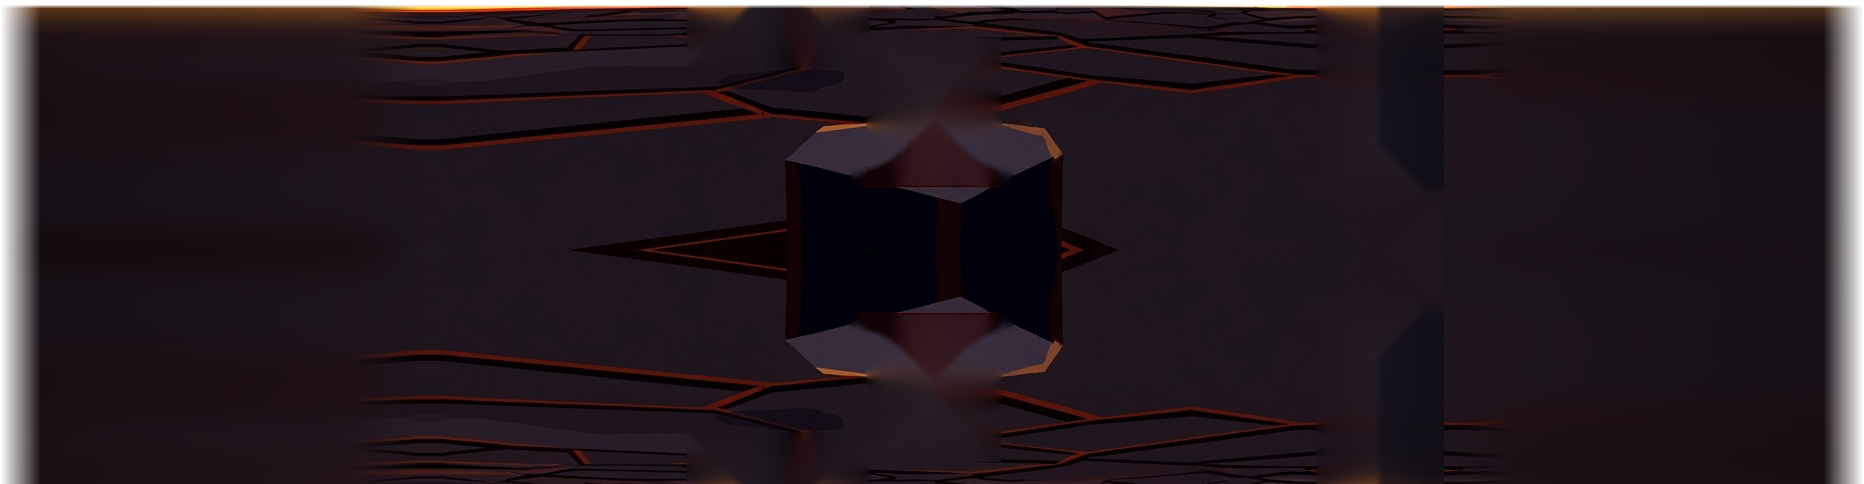
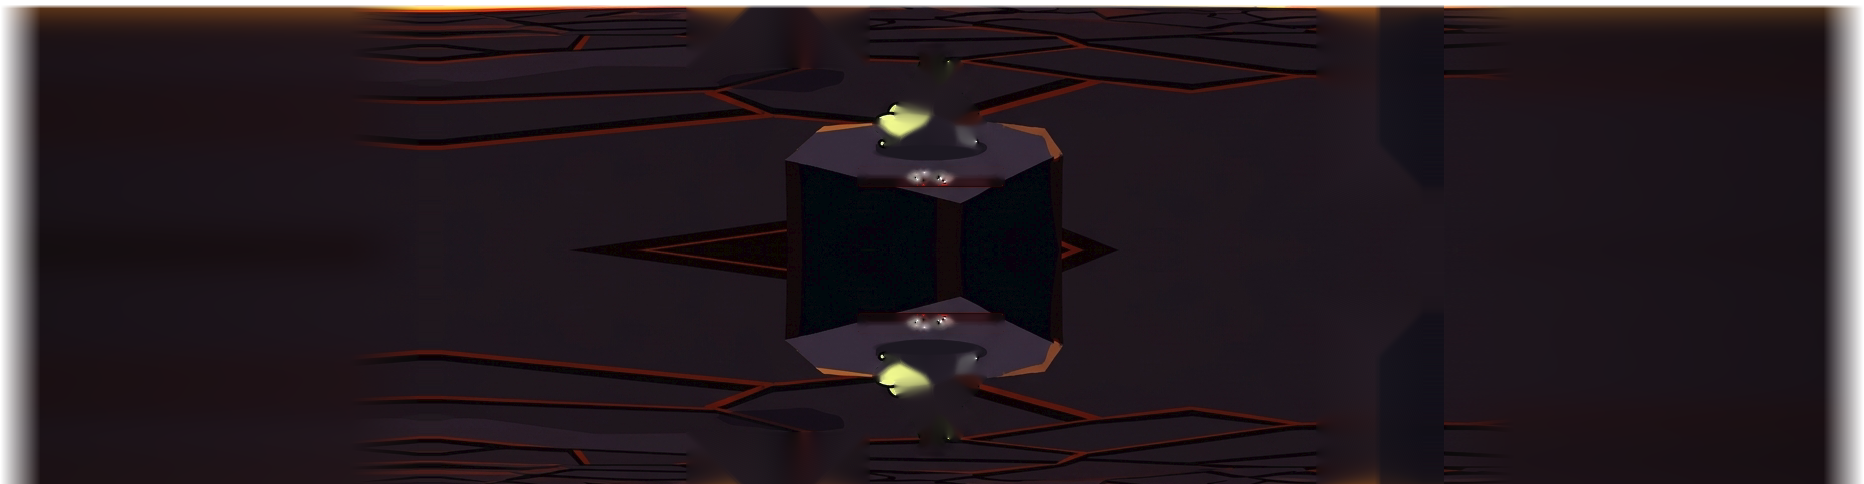
builder: TARGET's own pedestal at the rest view, darkest values kept; --frog close-up
Claude-Session: https://claude.ai/code/session_012yy1YjbpvUxnwcpt4xtUdn

diff --git a/tools/floor_cut.py b/tools/floor_cut.py
@@ -34,10 +34,12 @@ LAVA_FOOT = 548      # rows above this are the lava band: alpha fades in below i
 # differ the painted one reads as its foot.
 HOLES = [
     (270, 524, 446, 604),     # the lowest slab
-    (450, 582, 578, 708),     # the Frog
-    (434, 696, 590, 722),     # its HP bar
     (900, 300, 1016, 740),    # the climb gauge
 ]
+DARK_INV = ([0, 1, 3, 7, 13, 19, 24, 30, 255], [0, 9.3, 10, 12, 15, 20, 25, 30, 255])
+FROG = (440, 578, 590, 712)   # box round the Frog and its marker
+BAR = (428, 692, 596, 726)    # box round its HP bar
+SHADOW = ((507.0, 692.0), (56.0, 8.0))   # centre, radii in TARGET px
 CARDS_ROW = 790           # TARGET row the hand starts at: below it, rows repeat
 GROW = 4
 SIDE_FEATHER = 40
@@ -57,10 +59,29 @@ def build() -> None:
     hole = np.zeros((H, W), bool)
     for (x0, y0, x1, y1) in HOLES:
         hole[max(0, y0 - TOP - GROW):max(0, y1 - TOP + GROW), max(0, x0 - GROW):x1 + GROW] = True
+    # The Frog and its HP bar: only their own pixels (the green body and its
+    # dark outline, the red bar and its rim), so the fill does not smear the
+    # plinth round them (grader 2026-10-09, --frog close-up).
+    for (x0, y0, x1, y1), keyf in ((FROG, "frog"), (BAR, "bar")):
+        r = img[y0 - TOP:y1 - TOP, x0:x1].astype(int)
+        if keyf == "frog":
+            m = (r[..., 1] > r[..., 0] + 15) & (r[..., 1] > 70)
+        else:
+            m = (r[..., 0] > 110) & (r[..., 0] > r[..., 1] + 50)
+        m = ndi.binary_closing(m, iterations=3)
+        m = ndi.binary_fill_holes(m)
+        m = ndi.binary_dilation(m, iterations=4 if keyf == "frog" else 3)
+        hole[y0 - TOP:y1 - TOP, x0:x1] |= m
     bgr = np.ascontiguousarray(img[..., ::-1])
     fill = cv2.inpaint(bgr, hole.astype(np.uint8) * 255, 7, cv2.INPAINT_TELEA)[..., ::-1]
     out = img.astype(float)
     out[hole] = fill[hole]
+    # TARGET's soft shadow under the Frog, sampled: (28,23,33) on the plinth.
+    yy, xx = np.mgrid[0:H, 0:W].astype(float)
+    (sx, sy), (rx, ry) = SHADOW
+    d = ((xx - sx) / rx) ** 2 + ((yy + TOP - sy) / ry) ** 2
+    k = np.clip((1.0 - d) / 0.35, 0, 1)[..., None]
+    out = out * (1 - k) + np.array([28.0, 23.0, 33.0]) * k
     # Rows past CARDS_ROW mirror the floor above them (the 16:9 frame's
     # corners show this part beside the hand; a carried last row read as
     # vertical stripes).
@@ -92,6 +113,11 @@ def build() -> None:
     a *= np.clip(np.minimum(xs, W - 1 - xs) / SIDE_FEATHER, 0, 1)[None, :]
     ys = np.arange(H) + TOP
     a *= np.clip((ys - (LAVA_FOOT - 4)) / 4.0, 0, 1)[:, None]
+    # The colour table crushes TARGET's darkest values: measured on the
+    # rendered floor, inputs 0-8 all draw 0, 10 draws 3, 15 draws 13 (the
+    # plinth's navy side faces went flat black, grader 2026-10-09). Pre-map
+    # each channel through the inverse so the screen shows TARGET's values.
+    out = np.interp(out, DARK_INV[0], DARK_INV[1])
     rgba = np.dstack([np.clip(out, 0, 255), a * 255]).astype(np.uint8)
     Image.fromarray(rgba, "RGBA").save(OUT)
     print("floor:", OUT.relative_to(ROOT), W, "x", H, "pad", PAD)

diff --git a/tools/vs_target.py b/tools/vs_target.py
@@ -11,6 +11,7 @@ builder looks at this pair rather than at an adjective.
     python tools/vs_target.py shot.png out.png --square   TARGET vs the centred square of the shot
     python tools/vs_target.py shot.png out.png --stones   just the staircase of slabs, cut from the same square
     python tools/vs_target.py shot.png out.png --fist     the raised fist and its flame, cut from the same square
+    python tools/vs_target.py shot.png out.png --frog     the Frog on its pedestal, cut from the same square
     python tools/vs_target.py shot.png out.png --floor    the floor from the lava line to the hand, cut from the same square
 
 `--square` is the 1:1 test (Nick, 2026-10-08): TARGET.png is square, the game
@@ -50,6 +51,8 @@ REGIONS = {
     # the floor between the lava line and the hand, the square's full width
     # (builder 2026-10-09: a grader asked for a floor close-up to judge the
     # seams and slabs against)
+    # the Frog on its pedestal, cut from the same square
+    "--frog": {"target": (0.30, 0.55, 0.70, 0.80), "shot": (0.21875 + 0.30 * 0.5625, 0.55, 0.21875 + 0.70 * 0.5625, 0.80)},
     "--floor": {"target": (0.0, 0.52, 1.0, 0.78), "shot": (0.21875, 0.52, 0.78125, 0.78)},
 }
 

diff --git a/design/plan/BUILDER-QUEUE.md b/design/plan/BUILDER-QUEUE.md
@@ -142,9 +142,20 @@ run failed.
       Test: state=3d beast=cinder_jackal
       ![[agents/frames/builder/2026-10-09-lavaband-after.png|420]] ^lava-line-target-s-bright-yellow-band-acr
 
-- [ ] **Frog's pedestal: TARGET's dark plinth, no bright orange edge.**
-      TARGET's pedestal is a darker hex plinth with a dim warm rim; the game's top reads lighter and its right edge burns bright orange (the `--floor` pair shows both; TARGET's own pedestal is now painted under the game's).
-      **Done when** the `--square` and `--floor` pairs show no visible difference in the pedestal.
+- [ ] 👀 **Frog's pedestal: TARGET's dark plinth, no bright orange edge.**
+      ▶ [Test this now](obsidian://shell-commands/?vault=design&execute=fight-uri-beast&_beast=cinder_jackal) · [[BUILDER-QUEUE-NOTES#Frog's pedestal: TARGET's dark plinth, no bright orange edge.|details]]
+      Ask: nothing
+      Test: state=3d beast=cinder_jackal
+      ![[agents/frames/builder/2026-10-09-pedestal2-after.png|420]] ^frog-s-pedestal-target-s-dark-plinth-no
+
+- [ ] **Frog: TARGET's clean cel line, not a heavy pixelated outline.**
+      In the `--frog` close-up TARGET's Frog has thin clean dark lines and soft light-green shading; the game's has a heavy black, stair-stepped outline and darker green.
+      **Done when** the `--frog` pair shows no visible difference in the Frog.
+      Test: state=3d beast=cinder_jackal
+
+- [ ] **HP bar under the Frog: TARGET's size and weight.**
+      TARGET's 42/42 bar is a little smaller with a lighter rim and thinner numerals; the game's is larger and bolder (`--frog` pair).
+      **Done when** the `--frog` pair shows no visible difference in the HP bar.
       Test: state=3d beast=cinder_jackal
 
 ## Waiting on Nick

diff --git a/design/plan/BUILDER-QUEUE-NOTES.md b/design/plan/BUILDER-QUEUE-NOTES.md
@@ -2265,3 +2265,15 @@ Found by measuring, not by eye: the jackal is TARGET's own pixels, so every crac
 - Grader: R1 FAIL (blot and smear by the bottom stone), R2 PASS. VERDICT: PASS.
 - Frames: ![[agents/frames/builder/2026-10-09-lavaband-before.png|420]] ![[agents/frames/builder/2026-10-09-lavaband-after.png|420]]
 - Meshy: 0 credits.
+
+## Frog's pedestal: TARGET's dark plinth, no bright orange edge.
+
+2026-10-09 03:10 EDT, builder (run 8). PASSED.
+
+- TARGET's own pedestal is painted in the projected floor (tools/floor_cut.py keeps it); at the rest view the Frog's 3D rock hides and the drawn plinth shows, and once the lens climbs off the rest view (climb_t > BACKDROP_REST_CLIMB) the 3D rock stands there again (combat_3d._place_backdrop).
+- The Frog and its HP bar are cut out by their own pixels (green body + outline, red bar), not a rectangle, so the fill does not smear the plinth; TARGET's soft shadow under the Frog painted back.
+- The colour table crushed TARGET's darkest values (inputs 0-8 drew 0, 10 drew 3, measured on the rendered floor), so the plinth's navy side faces went black; floor_cut pre-maps each channel through the inverse (`DARK_INV`). Side faces now (0,0,9)-(0,1,9) against TARGET's (0,1,9)-(1,2,10).
+- New `--frog` close-up in tools/vs_target.py.
+- Grader: R1 FAIL (judged at the downscaled --floor pair), R2 FAIL (black side faces), R3 PASS. VERDICT: PASS.
+- Frames: ![[agents/frames/builder/2026-10-09-pedestal2-before.png|420]] ![[agents/frames/builder/2026-10-09-pedestal2-after.png|420]]
+- Meshy: 0 credits.
